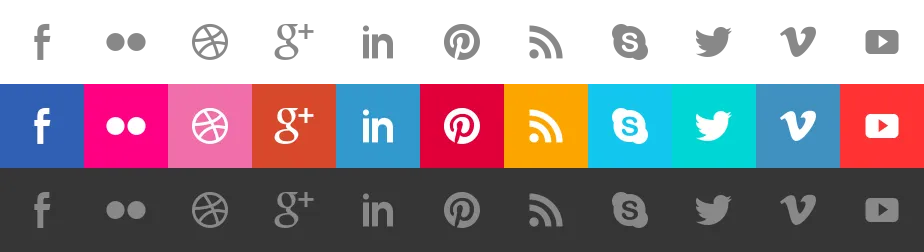
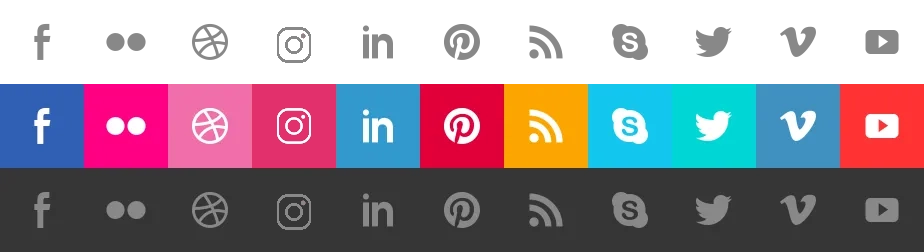
Added Boss's instagorom Profile.

Changed region(s): [[0.2727, 0.3333, 0.3636, 0.6667], [0.2727, 0.0833, 0.3636, 0.25], [0.2727, 0.75, 0.3333, 0.9167]]

diff --git a/index.html b/index.html
@@ -40,9 +40,10 @@
             <div class="about"><a href="#about">About Us</a></div>
             <div class="contact"><a href="#Contact">Contact</a></div>
             <div class="join"><a href="#join">Get Involved</a></div>
-            <div class="donor"><a style="color:white;" href="Donate">Donate</a></div>
+            <div class="donor"><a style="color:white;" href="#Donate">Donate</a></div>
             <div class="sb"><a href="https://www.facebook.com/mirzamsafi/" target="_blank" rel="noopener noreferrer"><i class="social facebook"></i></a></div>
             <div class="sb"><a href="https://www.linkedin.com/in/mirzamdsafi/" target="_blank" rel="noopener noreferrer"><i class="social linkedin"></i></a></div>
+            <div class="sb"><a href="https://www.instagram.com/mirzamdsafi/" target="_blank" rel="noopener noreferrer"><i class="social instagram"></i></a></div>
         </div>
     </div>
 

diff --git a/style.css b/style.css
@@ -10,7 +10,7 @@ a {
 div.nav {
 height: 100%;
 display: grid;
-grid-template-columns: repeat(7, auto);
+grid-template-columns: repeat(8, auto);
 grid-gap: 5px;
 justify-content: center;
 font-weight: bold;
@@ -65,6 +65,13 @@ div.nav > .home {
     width: 30px;
     height: 30px;
     background-position: -120px -30px;
+    margin: -5px 0px 0px 0px;
+}
+
+.instagram {
+    width: 30px;
+    height: 30px;
+    background-position: -90px -30px;
     margin: -5px 0px 0px 0px;
 }
 /* Social Buttons Shesh */
